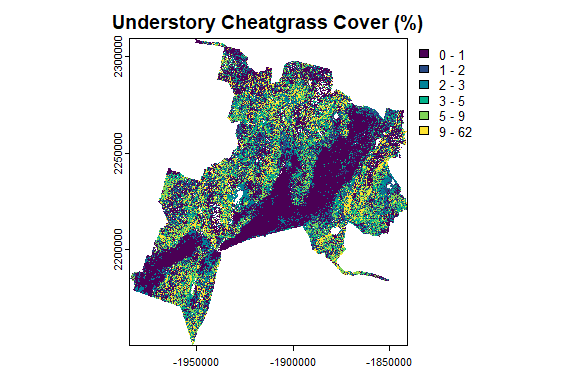
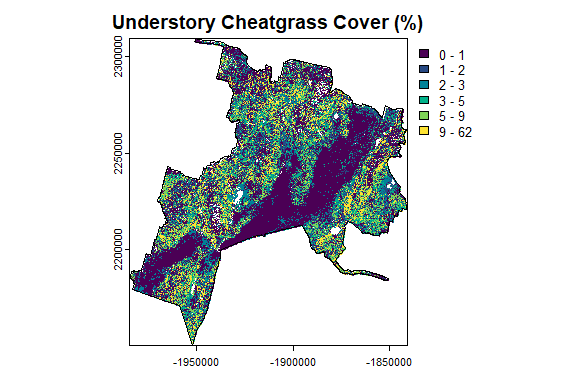
updates to vignette and readme

diff --git a/README.md b/README.md
@@ -15,7 +15,7 @@ To get started you’ll need to install `{RangeMap}` using the following
 command:
 
 ``` r
-remotes::install_github("firelab/RangeMap")
+remotes::install_github("firelab/RangeMap", build_vignettes = T)
 ```
 
 You must also have downloaded a RangeMap imputed ID raster for a given
@@ -40,8 +40,8 @@ library(RangeMap)
 library(terra)
 
 # Set paths to rangemap ID raster and attributes file
-raster_path<- system.file("extdata", "RangeMap_2025.tif", package = "RangeMap")
-attributes_path<- system.file("extdata", "RangeMap_Attributes.csv", package = "RangeMap")
+raster_path<- system.file("extdata", "RangeMap_2025_example.tif", package = "RangeMap")
+attributes_path<- system.file("extdata", "RangeMap_Attributes_example.csv", package = "RangeMap")
 
 # Set directory for outputs
 output_directory<- file.path(tempdir(), "RangeMap_outputs")
@@ -93,11 +93,13 @@ breaks<- quantile(values(understory_cheatgrass, na.rm=T), probs = seq(0, 1, by =
 plot(understory_cheatgrass, breaks = unique(breaks), 
      col = hcl.colors(length(unique(breaks)) - 1, "Viridis"),
      main = "Understory Cheatgrass Cover (%)")
+plot(terra::project(AOI, terra::crs(understory_cheatgrass)), add=T, border="black", lwd=1.5)
 ```
 
 ![](README_files/figure-gfm/unnamed-chunk-3-1.png)<!-- -->
 
 ``` r
+
 
 # Summarize understory cheatgrass cover
 summary(values(understory_cheatgrass, na.rm=T))
@@ -136,9 +138,12 @@ generate_species_occurrence_layer(raster_path = raster_path,
 # Load and plot cheatgrass occurrence
 cheatgrass<- rast(paste0(output_directory, "/Occurrence_BRTE.tif"))
 
+
+
 levels(cheatgrass)<- data.frame(id = 1, label = "BRTE present")
 plot(cheatgrass, col = "forestgreen", plg = list(x = "bottomright"),
      main = "Cheatgrass Occurrence")
+plot(terra::project(AOI, terra::crs(cheatgrass)), add=T, border="black", lwd=1.5)
 ```
 
 ![](README_files/figure-gfm/unnamed-chunk-4-1.png)<!-- -->
@@ -171,6 +176,7 @@ cheatgrass_sage<- rast(paste0(output_directory, "/Occurrence_BRTEandARTRW8.tif")
 levels(cheatgrass_sage)<- data.frame(id = 1, label = "BRTE and ARTRW8 present")
 plot(cheatgrass_sage, col = "forestgreen", plg = list(x = "bottomright"),
      main = "Cheatgrass and Wyoming Big Sagebrush Co-Occurrence")
+plot(terra::project(AOI, terra::crs(cheatgrass_sage)), add=T, border="black", lwd=1.5)
 ```
 
 ![](README_files/figure-gfm/unnamed-chunk-5-1.png)<!-- -->
